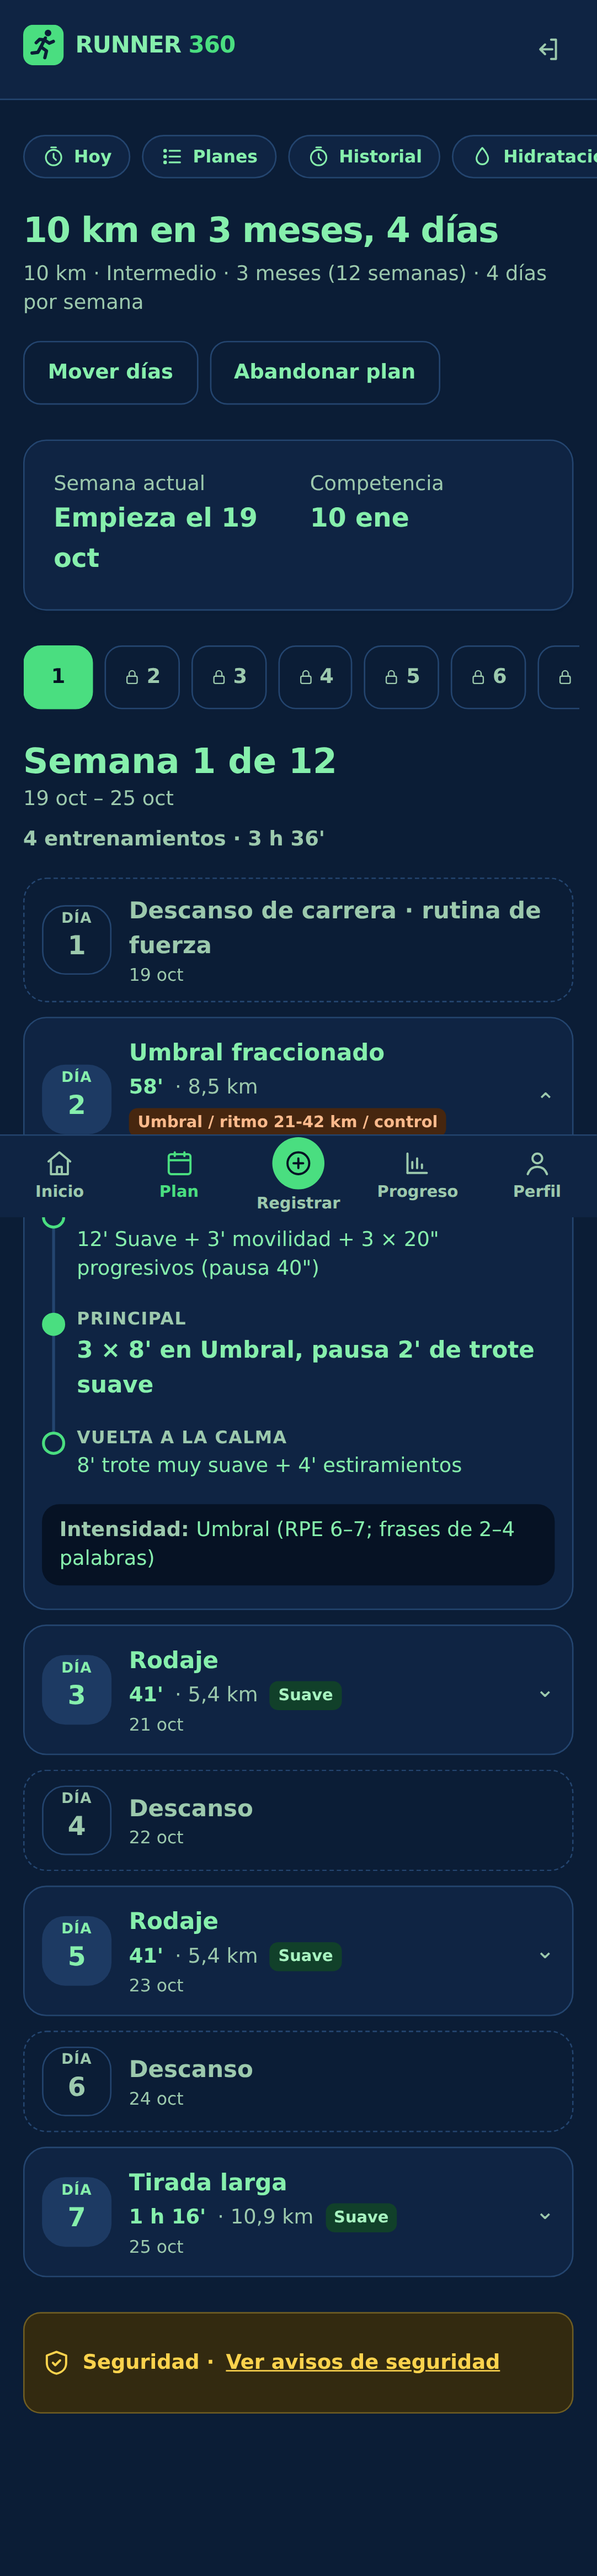
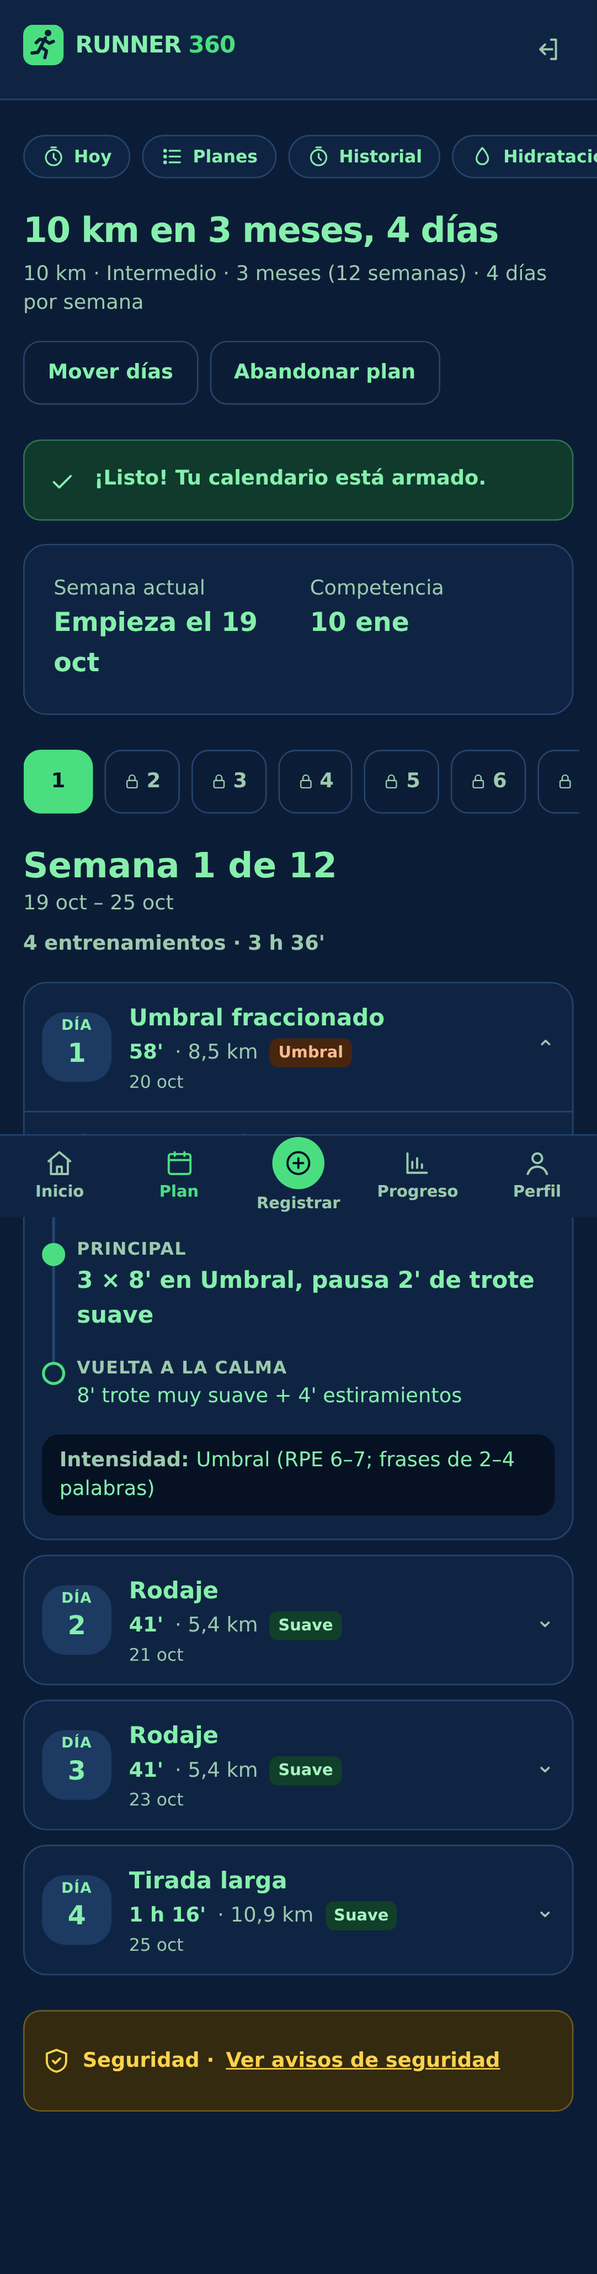
Plan: solo los días de entrenamiento, numerados Día 1, Día 2…
- La semana del plan (ficha, Mi plan y Hoy) muestra únicamente los entrenamientos; los
  descansos no se visualizan. La numeración es correlativa entre los días de entrenamiento.
- Tests E2E, documentación y captura actualizados.

Claude-Session: https://claude.ai/code/session_01T5wM7obUKaXtz98Q7KM3tW

diff --git a/apps/web/e2e/library.spec.ts b/apps/web/e2e/library.spec.ts
@@ -56,11 +56,13 @@ test.describe("biblioteca de planes", () => {
     await expect(strip.getByRole("link", { name: "Semana 1", exact: true })).toHaveAttribute("aria-current", "page");
     await expect(strip.getByRole("link", { name: "Semana 2, se libera con la suscripción" })).toBeVisible();
 
-    // Semana 1: 7 días numerados (Día 1 … Día 7), sin nombres de días; los pasos de la primera sesión a la vista.
+    // Semana 1: solo los 3 entrenamientos, numerados Día 1 … Día 3 (sin descansos ni nombres de días).
     const week = page.locator("section[aria-labelledby=semana]");
-    await expect(week.getByRole("heading", { level: 3 })).toHaveCount(7);
-    await expect(week.getByRole("heading", { name: /^Día 1: Descanso/ })).toBeVisible();
-    await expect(week.getByRole("heading", { name: /^Día 7:/ })).toBeVisible();
+    await expect(week.getByRole("heading", { level: 3 })).toHaveCount(3);
+    await expect(week.getByRole("heading", { name: /^Día 1:/ })).toBeVisible();
+    await expect(week.getByRole("heading", { name: /^Día 3:/ })).toBeVisible();
+    await expect(week.getByRole("heading", { name: /^Día 4:/ })).toHaveCount(0);
+    await expect(week.getByText("Descanso", { exact: true })).toHaveCount(0);
     await expect(week.getByText(/Lun|Mar ·|Dom/)).toHaveCount(0);
     await expect(week.getByText("Calentamiento").first()).toBeVisible();
     await expect(week.getByText("Vuelta a la calma").first()).toBeVisible();
@@ -85,7 +87,7 @@ test.describe("biblioteca de planes", () => {
     await expect(page.getByText("¡Listo! Tu calendario está armado.")).toBeVisible();
     await expect(page.getByRole("heading", { name: "5 km desde cero en 3 meses, 3 días" })).toBeVisible();
     await expect(page.getByRole("heading", { name: "Semana 1 de 12" })).toBeVisible();
-    await expect(page.locator("section[aria-labelledby=semana]").getByRole("heading", { level: 3 })).toHaveCount(7);
+    await expect(page.locator("section[aria-labelledby=semana]").getByRole("heading", { level: 3 })).toHaveCount(3);
     await expect(page.getByText("Valores estimados")).toHaveCount(0);
 
     // Mover días: válido.

diff --git a/apps/web/src/app/(app)/planes/[id]/page.tsx b/apps/web/src/app/(app)/planes/[id]/page.tsx
@@ -80,9 +80,11 @@ export default async function PlanDetailPage({ params, searchParams }: { params:
         </div>
         {days.length === 7 ? (
           <ol className="space-y-2.5">
-            {days.map((d) => (
-              <WorkoutDay key={d.day_index} day={d} n={d.day_index + 1} legend={v.category_legend} open={d.day_index === firstSession} />
-            ))}
+            {days
+              .filter((d) => !d.is_rest)
+              .map((d, i) => (
+                <WorkoutDay key={d.day_index} day={d} n={i + 1} legend={v.category_legend} open={d.day_index === firstSession} />
+              ))}
           </ol>
         ) : (
           <Card className="flex flex-col items-start gap-3">

diff --git a/apps/web/e2e/admin.spec.ts b/apps/web/e2e/admin.spec.ts
@@ -112,7 +112,7 @@ test.describe("panel administrativo", () => {
       await signUp(runner, uniqueEmail("semanas"));
       await completeOnboarding(runner);
       await runner.goto("/planes/plan-04?semana=2");
-      await expect(runner.locator("section[aria-labelledby=semana]").getByRole("heading", { level: 3 })).toHaveCount(7);
+      await expect(runner.locator("section[aria-labelledby=semana]").getByRole("heading", { level: 3 })).toHaveCount(3);
       await runner.goto("/planes/plan-04?semana=3");
       await expect(runner.locator("section[aria-labelledby=semana]").getByText("Con la suscripción mensual, cada débito automático libera", { exact: false })).toBeVisible();
     } finally {

diff --git a/apps/web/src/app/(app)/hoy/page.tsx b/apps/web/src/app/(app)/hoy/page.tsx
@@ -110,7 +110,7 @@ export default async function TodayPage({ searchParams }: { searchParams: Promis
       <div className="mb-6 space-y-4">
         <p className="text-sm font-semibold uppercase tracking-wide text-muted">{fmt(T.sessionOf, { n: slot.planWeek })}</p>
         <ol>
-          <WorkoutDay day={todayDay} n={(week?.dated.findIndex((x) => x.date === today) ?? 0) + 1} legend={v.category_legend} today open tips />
+          <WorkoutDay day={todayDay} n={(week?.dated.filter((x) => !x.day.is_rest).findIndex((x) => x.date === today) ?? 0) + 1} legend={v.category_legend} today open tips />
         </ol>
         <IntensityScale items={library.intensities} />
         {todayDay.is_rest ? (

diff --git a/apps/web/src/app/(app)/plan/enrollment-view.tsx b/apps/web/src/app/(app)/plan/enrollment-view.tsx
@@ -189,7 +189,7 @@ export async function EnrollmentView({
         {typeof selectedPlanWeek === "number" ? (
           ordered.length === 7 ? (
             <ol className="space-y-2.5">
-              {ordered.map(({ day, date }, i) => (
+              {ordered.filter((o) => !o.day.is_rest).map(({ day, date }, i) => (
                 <WorkoutDay
                   key={day.day_index}
                   day={day}

diff --git a/docs/training-plans.md b/docs/training-plans.md
@@ -75,9 +75,9 @@ Los datos de salud (`pain_score`, `red_flags`, `sleep_quality`, notas) son sensi
 | Ruta | Qué muestra |
 |---|---|
 | `/planes` | Acceso directo, sin evaluación previa. Arriba, las dos opciones: **plan gratis** (la muestra de `free_preview_weeks`) o **suscripción mensual**. Pestañas **5 / 10 / 21 / 42 km** (la inicial es la distancia del perfil) → días por semana → duración del plan → nivel; un paso con una sola opción se elige solo. Con el plan definido: resumen, "Pensado para quien" (los `entry_requirements`, informativos) e inscripción (lunes de inicio entre los próximos 12 + confirmación de los avisos de seguridad). Los pasos viajan en la URL (`?d=10&dias=4&s=24&n=Intermedio`, o `?plan=plan-NN`). |
-| `/planes/[id]` | Vista simple, solo tareas: título y etiquetas, tira de semanas S1…SN (candado en las no liberadas), "Semana N de T" con el resumen (entrenamientos y tiempo) y los días numerados **Día 1…Día 7** (no por nombre). Cada entrenamiento se despliega en pasos: calentamiento → principal → vuelta a la calma (+ fuerza) e intensidad. Rutina de fuerza y avisos de seguridad colapsables. Sin valores estimados, perfil, objetivos, fases ni vista rápida. |
+| `/planes/[id]` | Vista simple, solo tareas: título y etiquetas, tira de semanas S1…SN (candado en las no liberadas), "Semana N de T" con el resumen (entrenamientos y tiempo) y solo los días de entrenamiento, numerados **Día 1, Día 2…** (no por nombre; los descansos no se muestran). Cada entrenamiento se despliega en pasos: calentamiento → principal → vuelta a la calma (+ fuerza) e intensidad. Rutina de fuerza y avisos de seguridad colapsables. Sin valores estimados, perfil, objetivos, fases ni vista rápida. |
 | `/planes/elegir` | Redirige a `/planes` (el asistente de evaluación se quitó). |
-| `/plan` | La misma vista sobre el calendario de la inscripción: semana actual y competencia, tira de semanas del calendario (con repeticiones y pausas), días numerados por orden de fecha con la fecha corta, "hoy" y "Hecho" según los registros. |
+| `/plan` | La misma vista sobre el calendario de la inscripción: semana actual y competencia, tira de semanas del calendario (con repeticiones y pausas), solo los días de entrenamiento, numerados por orden de fecha con la fecha corta, "hoy" y "Hecho" según los registros. |
 | `/plan/dias` | Mover días: qué día de la semana se hace cada día del plan. |
 | `/hoy` | La sesión del día (calentamiento, parte principal, vuelta a la calma, intensidad con la escala RPE a un toque, observaciones), el registro post-sesión, el check-in semanal pendiente, el aviso de sesión perdida y la semana en curso. En pausa: avisos de seguridad y "Retomar". |
 
